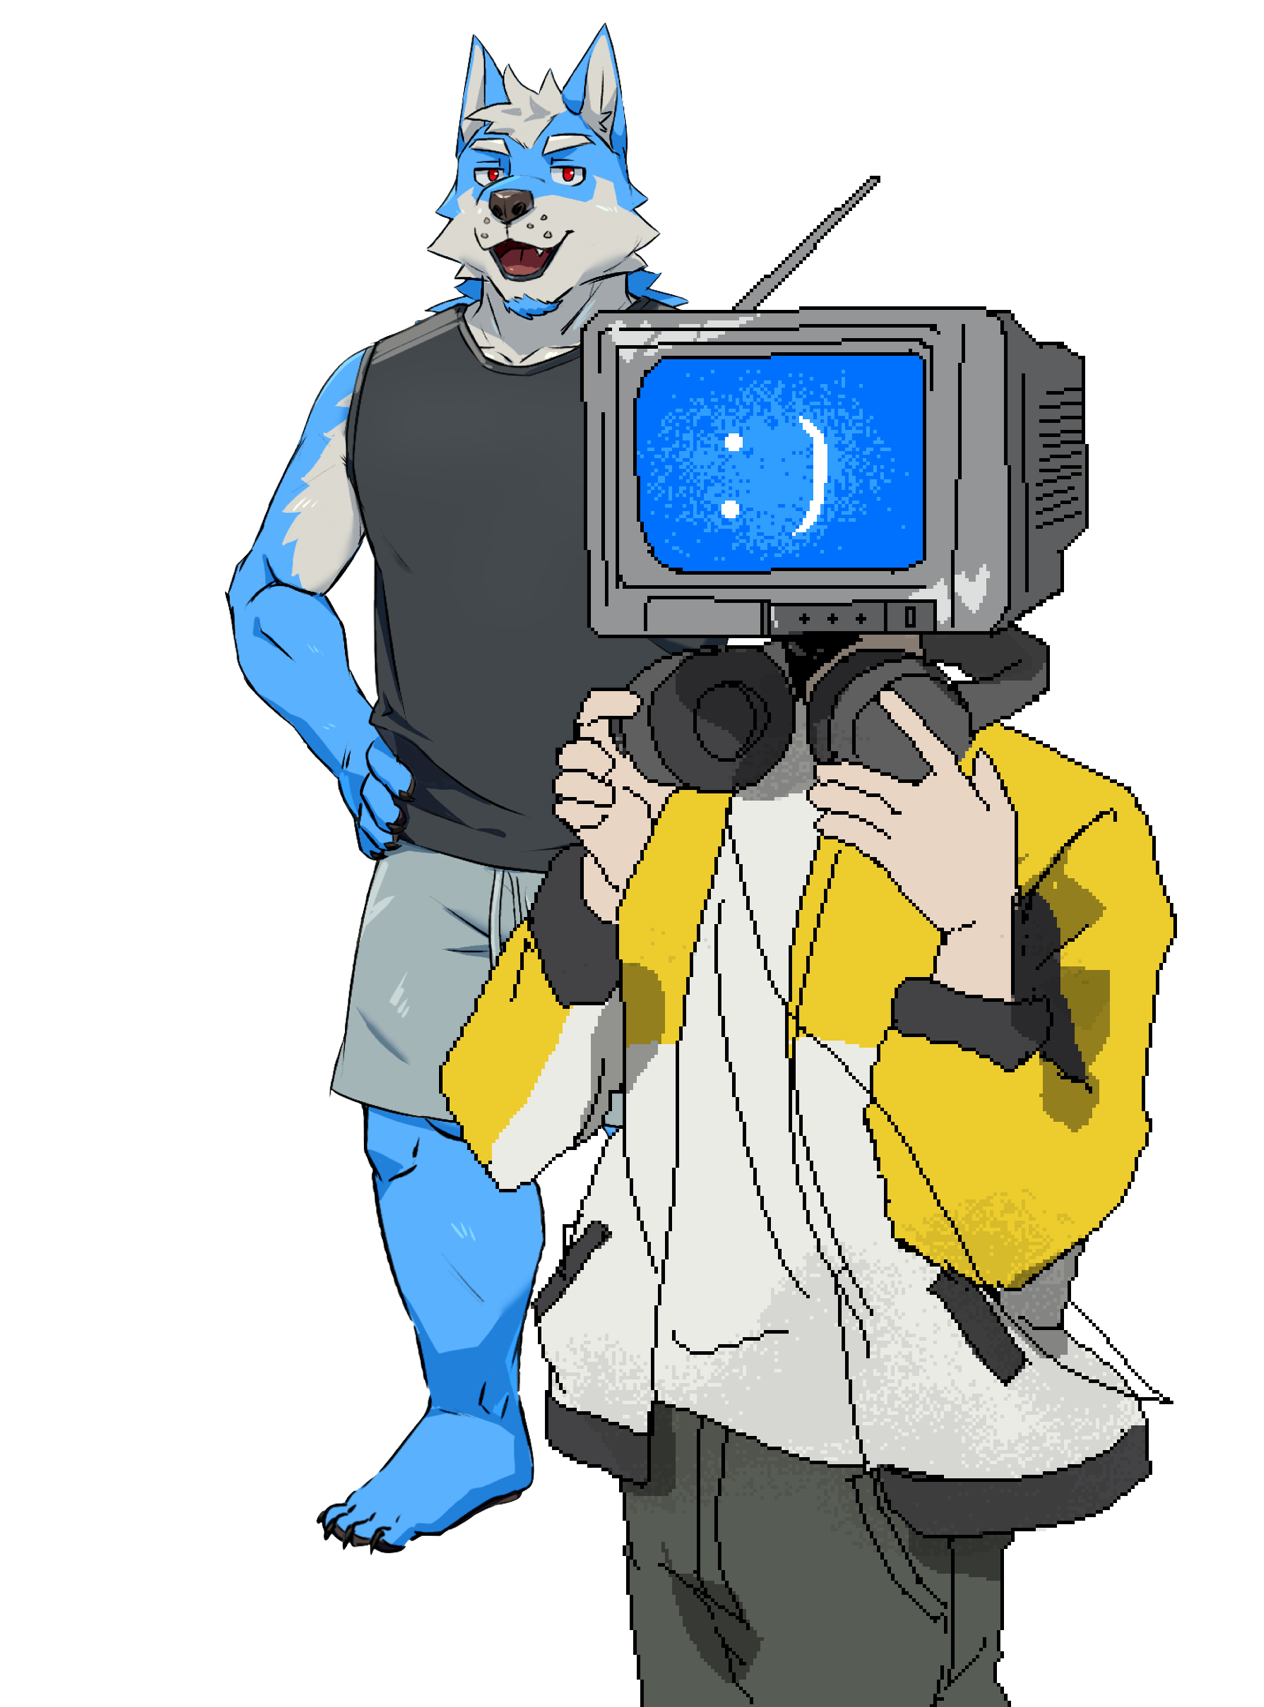
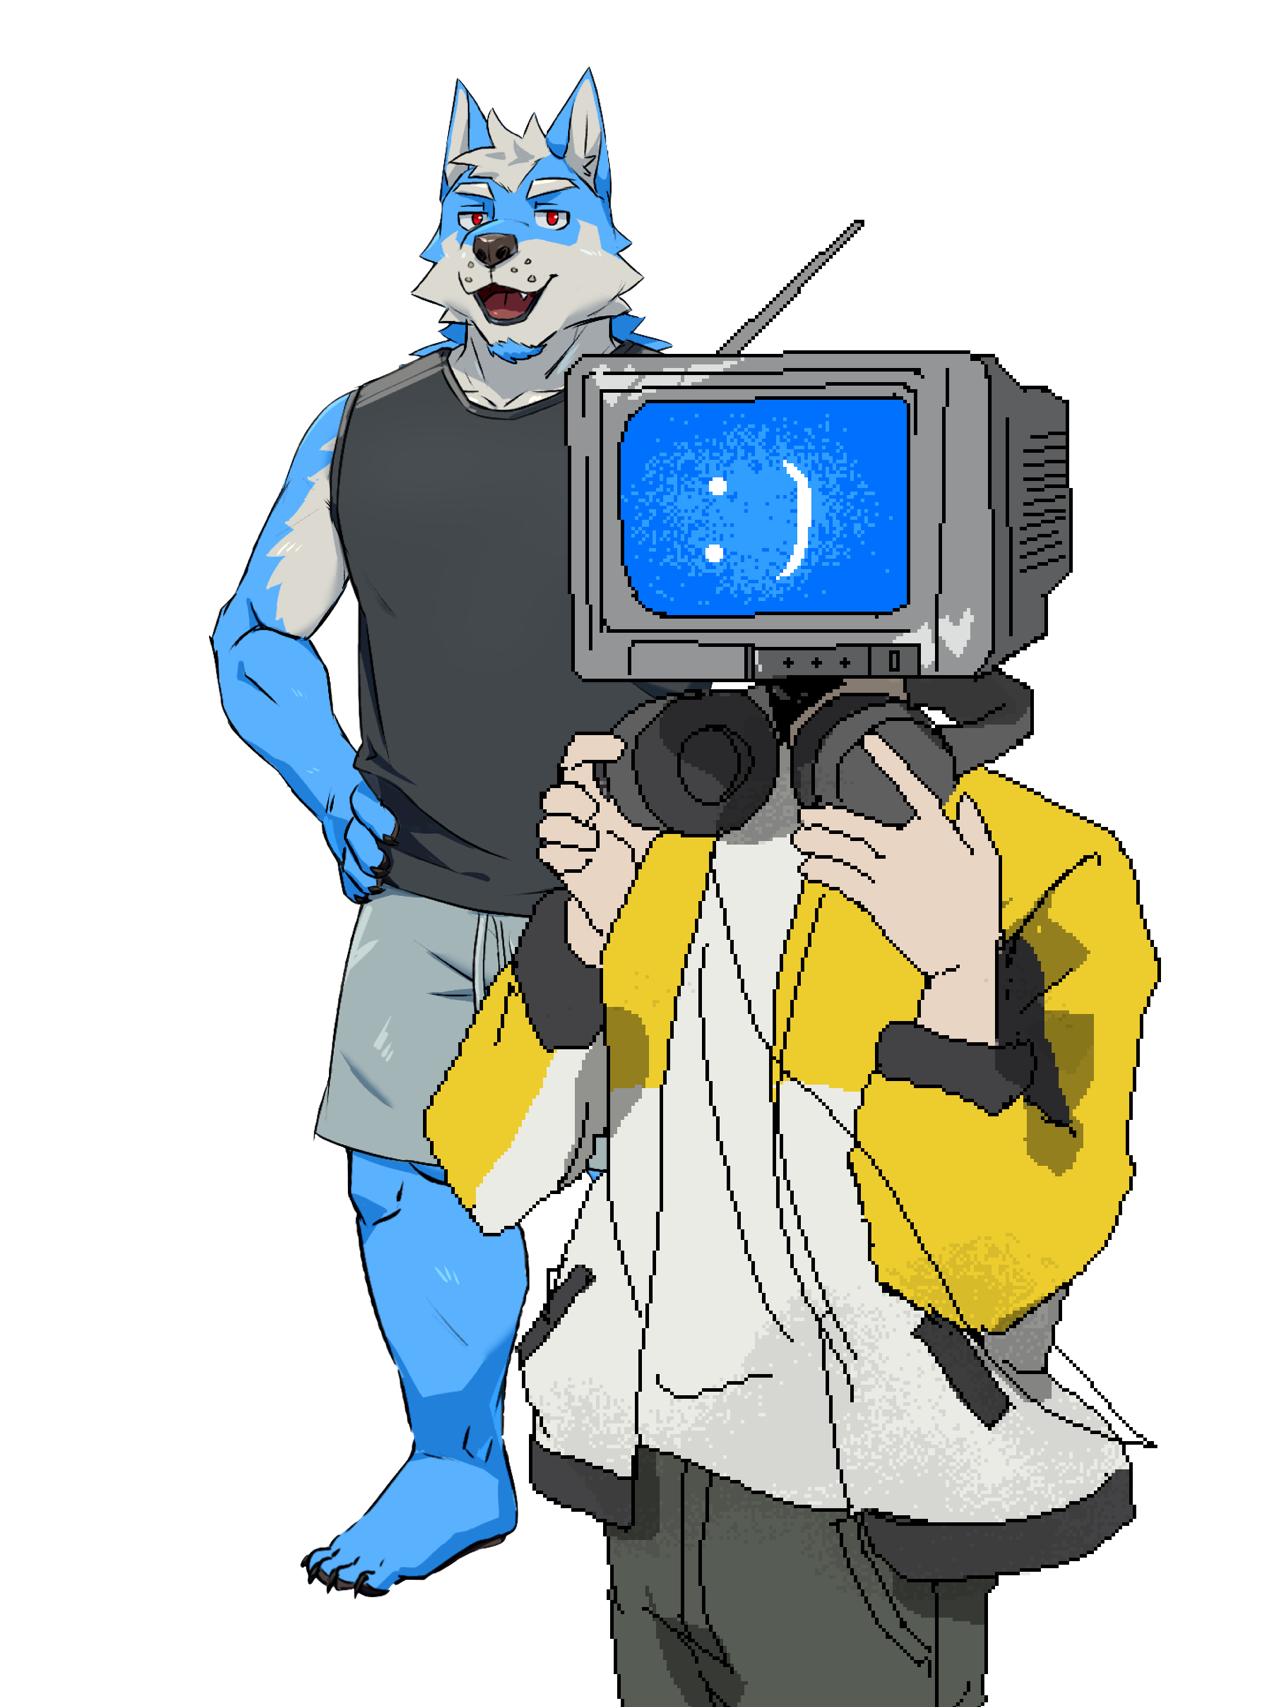
fin4

Changed region(s): [[0.1543, 0.0, 0.9565, 1.0]]

diff --git a/src/view/pages/AboutPage.jsx b/src/view/pages/AboutPage.jsx
@@ -1,5 +1,6 @@
 import { Link } from 'react-router-dom'
 import Menu from '../menu/Menu'
+import aboutData from '../../json/about.json'
 import './AboutPage.css'
 
 export default function AboutPage() {
@@ -13,25 +14,17 @@ export default function AboutPage() {
 
       <div className="about">
         <p>
-          在無聲的山岳深處，回蕩著未曾終止的律動。<br />
-          <br />
-          我們，是踏入樂音洪流的旅人。<br />
-          音符不再只是冷冽的符號，而是脈動的光子。<br /><br />
-          每一次下落，皆如星辰墜落大地；<br />
-          每一次擊打，便能使靈魂與宇宙之能共鳴。<br />
-          <br />
-          這並非單純的遊戲，而是一場向未知延伸的探索——<br />
-          對未來科技的試煉，對美學感知的挑戰。<br />
-          當節奏化為洪潮，判定化作斷崖，曲線隱匿幻影之時，<br />
-          皆在呼喚那些願意迎接挑戰之人。<br />
-          <br />
-          若你願意，請跨越門檻。<br />
-          在此之後，你所踏入的，不再只是遊戲，而是<br /><br />
-          一場以「音」為名的試煉。<br />
-          以<b>「北」</b>極星之名<br />
-          使<b>「藝」</b>之魂閃耀於長空<br />
-          劃開交織<b>「音」</b>符的長河<br />
-          <b>「遊」</b>歷於屬於自己的軌跡
+          {aboutData.map((paragraph, i) => (
+            <span key={i}>
+              {paragraph.split('\n').map((line, j) => (
+                <span
+                  key={j}
+                  dangerouslySetInnerHTML={{ __html: line + '<br />' }}
+                />
+              ))}
+              {i < aboutData.length - 1 && <br />}
+            </span>
+          ))}
         </p>
       </div>
 

diff --git a/dist/index.html b/dist/index.html
@@ -10,8 +10,8 @@
   <meta property="og:title" content="北藝大音樂遊戲研究社" />
   <meta property="og:description" content="若你願意，請跨越門檻。在此之後，你所踏入的，不再只是遊戲……而是一場以「音」為名的試煉。" />
   <title>北藝音遊 TNUA MUSIC GAME CLUB</title>
-  <script type="module" crossorigin src="/assets/index-SQOTCJh5.js"></script>
-  <link rel="stylesheet" crossorigin href="/assets/index-CXa5Fp5P.css">
+  <script type="module" crossorigin src="/assets/index-BvFAaTwy.js"></script>
+  <link rel="stylesheet" crossorigin href="/assets/index-CWOhcx2I.css">
 </head>
 
 <body>

diff --git a/src/view/pages/AboutPage.css b/src/view/pages/AboutPage.css
@@ -33,3 +33,10 @@
   text-decoration: none;
   margin: 0;
 }
+
+.about b,
+.about strong {
+  font-weight: 900;
+  color: #ffffff;
+  text-shadow: 0 0 10px rgba(255, 255, 255, 0.8);
+}

diff --git a/README.md b/README.md
@@ -1,10 +1,29 @@
-北藝音遊
+<h1 align="center" style="font-size: 4em; color: #000; -webkit-text-stroke: 1px #4FC0C4;"><b>北 藝 音 遊</b></h1>
 
-# 活動用json加，記得放照片進資料夾（沒後端）
-# ig貼分享網址
-後面看到 ig_web_copy_link&stkn=MzRlODBiNWFlZA== 之類的
-改成 ig_embed&utm_campaign=loading
+***
+## HOME
+### - ig貼分享網址
+  後面看到 ig_web_copy_link&stkn=MzRlODBiNWFlZA== 之類的<br>
+  改成 ig_embed&utm_campaign=loading
 
-# member如果要有不同版本圖
-"imgDesktop": "/img/member/---.png",
-"imgMobile": "/img/member/---.png",
+***
+## ABOUT
+### - 改介紹改json
+* 換行打 `\n`，文字加粗用 `<b>字</b>`
+
+***
+## MEMBER
+### - 資料夾路徑在 ./public/img/member/
+* 換幹部直接改同檔名取代資料夾內圖片就ok
+
+### - member如果要有不同版本圖
+* "imgDesktop": "/img/member/---.png",
+* "imgMobile": "/img/member/---.png",
+
+***
+## ACTIVITY
+### - 活動用json加，記得放照片進 ./public/img/activity/ 資料夾（沒後端）
+
+***
+## CONTACT
+### - 要改直接改socialLinks.jsx
